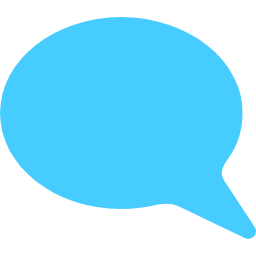
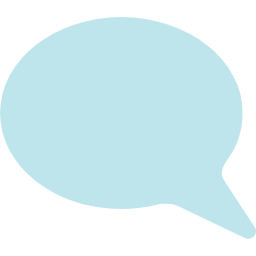
色を見やすい色に変更。

diff --git a/app/assets/stylesheets/comment.scss b/app/assets/stylesheets/comment.scss
@@ -45,6 +45,7 @@
     margin: 0px 8px;
     padding: 0px 4px;
     border-radius: 4px;
+    color: #000000DE;
   }
 }
 
@@ -73,15 +74,15 @@
 }
 
 .blue {
-  background-color: #00FFFF;
+  background-color: #bee5eb;
 }
 
 .yellow {
-  background-color: #FFFF00;
+  background-color: #F9D5A7;
 }
 
 .red {
-  background-color: #FF0033;
+  background-color: #e04e4e;
 }
 
 .comments_user {
